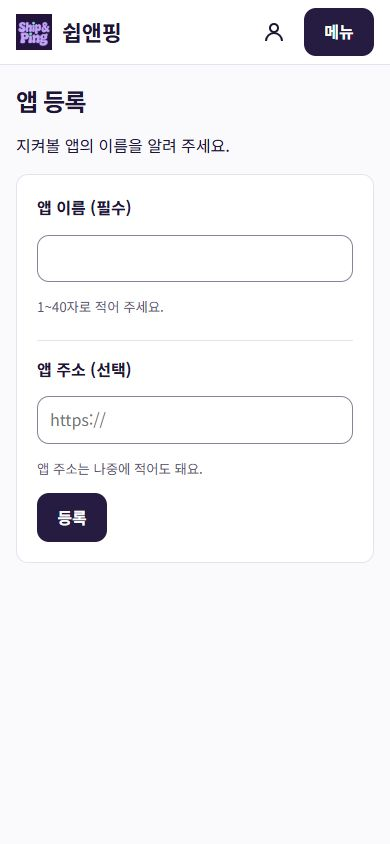
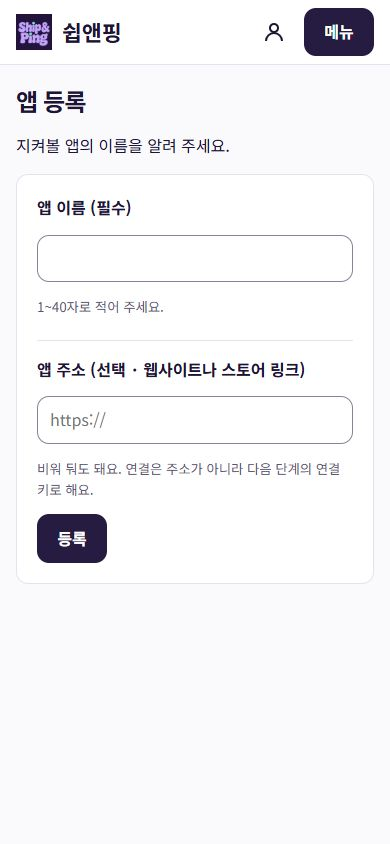
fix: T33 앱 주소 선택 안내와 모바일 앱 연결 안내 (#31)

diff --git a/web/src/onboarding.test.tsx b/web/src/onboarding.test.tsx
@@ -801,6 +801,24 @@ it("200개 한도를 넘긴 이름은 저장 성공으로 표시하지 않는다
   expect(screen.queryByDisplayValue("초과")).toBeNull();
 });
 describe("연결 요청문과 등록 입력", () => {
+  it.each(["/apps/new", "/apps/a/settings"])("%s 주소 칸에 선택 사항과 연결 방법을 안내한다", async path => {
+    open(path);
+    const field = await screen.findByLabelText("앱 주소 (선택 · 웹사이트나 스토어 링크)");
+    expect(field.getAttribute("placeholder")).toBe("https://");
+    expect(document.getElementById(field.getAttribute("aria-describedby")!)?.textContent)
+      .toBe("비워 둬도 돼요. 연결은 주소가 아니라 다음 단계의 연결 키로 해요.");
+  });
+  it.each([
+    "https://play.google.com/store/apps/details?id=com.example.app",
+    "https://apps.apple.com/kr/app/example/id123456789",
+  ])("스토어 주소 %s를 허용한다", url => {
+    expect(validateApp("모임모아", url)).toEqual({});
+  });
+  it("휴대폰 앱의 연결 방식을 안내한다", async () => {
+    open("/apps/a/connect");
+    const guide = await screen.findByText(/휴대폰 앱\(플레이스토어·앱스토어\)이라면/);
+    expect(guide.textContent).toBe("휴대폰 앱(플레이스토어·앱스토어)이라면 앱 서버에서 기록을 보내도록 서버 있음을 골라 주세요. 휴대폰 앱 코드는 바꾸지 않아도 돼요.");
+  });
   it("공개 수집 키와 환경변수 이름만 제공한다", () => {
     const prompt = buildConnectPrompt(pub, base);
     expect(prompt).toContain(pub);

diff --git a/web/src/App.tsx b/web/src/App.tsx
@@ -9,7 +9,7 @@ import {
   useParams,
 } from "react-router-dom";
 import type { AppSummary, Gateway } from "./data";
-import { validateApp } from "./domain";
+import { appAddressHelp, appAddressLabel, validateApp } from "./domain";
 import { displayText } from "./normalize";
 import { Hero, Landing, Shell } from "./Layout";
 import { AuthPage } from "./AuthPage";
@@ -230,7 +230,7 @@ function Register({
             onChange={(e) => setName(e.target.value)}
           />
           <small id="name-help">{errors.name ?? "1~40자로 적어 주세요."}</small>
-          <label htmlFor="app-url">앱 주소 (선택)</label>
+          <label htmlFor="app-url">{appAddressLabel}</label>
           <input
             id="app-url"
             type="url"
@@ -241,7 +241,7 @@ function Register({
             onChange={(e) => setUrl(e.target.value)}
           />
           <small id="url-help">
-            {errors.url ?? "앱 주소는 나중에 적어도 돼요."}
+            {errors.url ?? appAddressHelp}
           </small>
           <button disabled={busy}>{busy ? "등록하는 중" : "등록"}</button>
           {error && (

diff --git a/web/src/AppSettings.tsx b/web/src/AppSettings.tsx
@@ -3,7 +3,7 @@ import { useNavigate, useParams } from "react-router-dom";
 import { CurrentAppName } from "./Layout";
 import { Copy } from "./Connect";
 import { displayText, sanitizeRoute } from "./normalize";
-import { validateApp } from "./domain";
+import { appAddressHelp, appAddressLabel, validateApp } from "./domain";
 import type { Gateway, KeySummary, Label, Snapshot } from "./data";
 
 export function AppSettings({ api }: { api: Gateway }) {
@@ -119,9 +119,10 @@ function Settings({ api, id }: { api: Gateway; id: string }) {
               <input value={name} onChange={(e) => setName(e.target.value)} />
             </label>
             <label>
-              앱 주소
-              <input value={url} onChange={(e) => setUrl(e.target.value)} />
+              {appAddressLabel}
+              <input type="url" placeholder="https://" aria-describedby="url-help" value={url} onChange={(e) => setUrl(e.target.value)} />
             </label>
+            <small id="url-help">{appAddressHelp}</small>
             <button
               onClick={() =>
                 change(async () => {

diff --git a/web/src/Connect.tsx b/web/src/Connect.tsx
@@ -366,6 +366,7 @@ export function Connect({
           <div className="cols">
             <section className="panel">
               <h2>연결 요청문</h2>
+              <p>휴대폰 앱(플레이스토어·앱스토어)이라면 앱 서버에서 기록을 보내도록 <a href="#server-key"><strong>서버 있음</strong></a>을 골라 주세요. 휴대폰 앱 코드는 바꾸지 않아도 돼요.</p>
               {pub ? (
                 <>
                   <p>
@@ -394,7 +395,7 @@ export function Connect({
                   </button>
                 </>
               )}
-              <h3>서버가 있는 앱</h3>
+              <h3 id="server-key" tabIndex={-1}>서버가 있는 앱</h3>
               <p>
                 서버 키는 배포 설정(환경변수 <code>SHIPPING_SERVER_KEY</code>)에 직접
                 넣으세요. 코딩 AI 대화나 코드에 붙여넣지 마세요.

diff --git a/web/src/domain.ts b/web/src/domain.ts
@@ -40,6 +40,9 @@ export function buildConnectPrompt(publicKey: string, endpoint: string) {
 앞에서 지정한 쉽앤핑 수집 주소(INGEST_URL)는 예외야. ${connectRestriction}`;
 }
 
+export const appAddressLabel = "앱 주소 (선택 · 웹사이트나 스토어 링크)";
+export const appAddressHelp = "비워 둬도 돼요. 연결은 주소가 아니라 다음 단계의 연결 키로 해요.";
+
 export function validateApp(name: string, url: string) {
   const errors: { name?: string; url?: string } = {};
   if (!name.trim() || [...name.trim()].length > 40)

diff --git a/docs/monitoring-service-ux.md b/docs/monitoring-service-ux.md
@@ -136,15 +136,15 @@ S2 내 앱 목록 ─[머리말 오른쪽 계정 아이콘]→ S11 내 계정
 |---|---|---|---|---|---|
 | S1 로그인·가입·재설정 | 제출 중 단추 비활성 | 이메일·비밀번호 입력 | 로그인 실패는 “이메일이나 비밀번호가 맞지 않아요”. 같거나 약한 새 비밀번호는 해당 칸에서 수정. 만료·사용한 링크는 다시 요청 | 가입과 중복 가입에 같은 확인 메일 안내. 첫 로그인 → S3, 이후 로그인과 재설정 완료 → S2 | 비밀번호 확인이 다르면 다시 입력. 메일이 안 오면 스팸함 확인 |
 | S2 내 앱 목록 | 카드 자리 뼈대 | "아직 등록한 앱이 없어요. 앱을 등록하면 연결 요청문을 드려요" + [앱 등록하기] | 목록 불러오기 실패: "앱 목록을 불러오지 못했어요" + [다시 불러오기] | — | 앱 3개 한도: [앱 등록하기] 비활성 + "무료 베타는 앱 3개까지예요" [명세] |
-| S3 앱 등록 | [등록] → "등록하는 중" 비활성 | — | 칸 옆에 바로: "앱 이름을 적어 주세요(1~40자)", "https://로 시작하는 주소를 적어 주세요". 서버 실패: "등록하지 못했어요. 입력한 내용은 그대로 있어요" [다시 등록] | 키 발급 → S4로 이동 | 주소를 몰라도 됨: "앱 주소는 나중에 적어도 돼요" |
-| S4 연결하기 | 대기: "첫 기록을 기다리고 있어요" + 진행 단계 ①~④ (5초마다 조회, 화면을 떠나도 계속) | 30분 기록 없음: "기록이 안 와요?" 체크리스트(배포했나요 / 앱을 한 번 써 봤나요 / AI에 확인 문장 붙여넣기) [명세] | 조회 실패: 대기 표시 유지 + "잠시 연결이 끊겼어요. 자동으로 다시 확인해요". 이름 저장 실패: 고친 이름 유지 + [다시 저장] | "기록이 도착했어요. 기능 8개를 찾았어요" → 이름 확인 → [이 이름으로 지켜보기] → S5 | 요청문에 키가 들어 있음 → 복사 단추 아래 "다른 사람에게 보내지 마세요" |
+| S3 앱 등록 | [등록] → "등록하는 중" 비활성 | — | 칸 옆에 바로: "앱 이름을 적어 주세요(1~40자)", "https://로 시작하는 주소를 적어 주세요". 서버 실패: "등록하지 못했어요. 입력한 내용은 그대로 있어요" [다시 등록] | 키 발급 → S4로 이동 | 2026-11-26 사용자 결정 “앱 주소 (선택 · 웹사이트나 스토어 링크)”. 칸 아래 “비워 둬도 돼요. 연결은 주소가 아니라 다음 단계의 연결 키로 해요.” |
+| S4 연결하기 | 대기: "첫 기록을 기다리고 있어요" + 진행 단계 ①~④ (5초마다 조회, 화면을 떠나도 계속) | 30분 기록 없음: "기록이 안 와요?" 체크리스트(배포했나요 / 앱을 한 번 써 봤나요 / AI에 확인 문장 붙여넣기) [명세] | 조회 실패: 대기 표시 유지 + "잠시 연결이 끊겼어요. 자동으로 다시 확인해요". 이름 저장 실패: 고친 이름 유지 + [다시 저장] | "기록이 도착했어요. 기능 8개를 찾았어요" → 이름 확인 → [이 이름으로 지켜보기] → S5 | 요청문에 키가 들어 있음 → 복사 단추 아래 "다른 사람에게 보내지 마세요" · 2026-11-26 사용자 결정 “휴대폰 앱(플레이스토어·앱스토어)이라면 앱 서버에서 기록을 보내도록 **서버 있음**을 골라 주세요. 휴대폰 앱 코드는 바꾸지 않아도 돼요.” |
 | S5 앱 홈 | 문제 카드·기능 목록 뼈대 | 기록 0건: "첫 기록을 기다리고 있어요" + [연결 다시 보기](S4). 문제 없음: "모두 괜찮아요"(마지막 기록 시각 함께) | 24시간 기록 끊김: "하루 동안 기록이 없어요 — 사용자가 없었거나 연결이 끊겼을 수 있어요" + [연결 확인하는 법]. 폐기 키 사용: "폐기한 키로 기록이 오고 있어요" + [앱 설정에서 새 키 보기]. 한도 초과: "기록이 너무 많아 일부만 받고 있어요" [명세] | — | 알림 받을 곳 없음 띠 → [알림 설정] |
 | S6 기능 상세 | 막대 자리 뼈대 | 평소 속도 전: "지금까지 7건, 0.9~2.1초. 30건이 모이고 3일이 지나면 평소 속도를 알려 드려요" | 조회 실패: [다시 불러오기] | 느림 기준 바꾸기 → "느림 기준을 6초로 바꿨어요" | "느림 기준"은 평소 속도가 없을 때만 쓰인다는 설명 필요 |
 | S7 문제 상세 | 업데이트 후 확인 영역: "업데이트 후 첫 사용을 기다리고 있어요" → "3건 성공, 2건 더 확인할게요"(진행 수를 그대로) | 새 버전 없음: "고친 버전을 배포하면 여기서 확인해 드려요" [명세] | 복사 실패(브라우저가 막음): "자동 복사가 막혔어요. 아래 내용을 길게 눌러 복사하세요" + 내용 펼침. 새 버전에서도 실패: "업데이트 후에도 5건 중 2건 실패했어요" + [AI에 다시 보낼 내용 복사] | "해결됐어요" + "업데이트 후 분석 15건 모두 평소 속도로 끝났어요". 잠잠해짐은 "잠잠해졌어요(새 버전 없이 나아졌어요)"로 구분 | 휴대폰에서 복사하고 PC에서 붙여넣기 → 1장 제안 참고. [문제 아님으로 닫기]는 "24시간 다시 알리지 않아요"를 단추 옆에 |
 | S8 깊게 볼 기능 추가 | [추가 연결 요청 복사] 후 대기 | 5개 한도: 단추 비활성 + "깊게 볼 기능은 앱마다 5개까지예요" | 입력 칸 옆 안내(시작·성공 예시 문장). 첫 결과 미도착: S4와 같은 체크리스트 | "첫 신청 기록이 도착했어요. 참가자 명단에 저장되기까지 1.2초 걸렸어요" [명세] | "시작"과 "실제 성공"의 차이 → 예시 문장을 칸 안이 아니라 칸 위에 |
 | S9 알림 설정 | [Slack에 추가] → 슬랙 화면 이동 | 둘 다 꺼짐: "알림을 받을 곳이 없어요" 띠 [명세] | 앱 10개 한도: "이 슬랙 워크스페이스에 앱을 더 추가할 수 없어요(무료는 10개까지). 앱 하나를 지우거나 이메일 알림을 켜세요". 관리자 제한: "워크스페이스 관리자가 앱 추가를 막아 두었어요. 관리자에게 요청하거나 이메일 알림을 켜세요". 연결 끊김: "슬랙 연결이 끊겼어요, 다시 연결해 주세요" [명세] | "#모임모아-알림에 연결됐어요" + [시험 알림 보내기] → "시험 알림을 보냈어요. 슬랙에서 확인해 보세요" | 슬랙 OAuth 화면이 영어일 수 있음 → 누르기 전 "슬랙 화면에서 알림 받을 채널을 고르세요" 안내 |
 | S11 내 계정 (v1.1) | 비밀번호 저장·번호 전송 중 중복 제출 방지. 탈퇴 → "탈퇴하는 중" 비활성, 입력 잠금 | 등록한 앱 없음: "앱 0개 / 3개" + [앱 등록하기] | 인증번호가 틀리면 다시 입력하고 만료되면 새 번호 받기. 탈퇴 요청 제한은 “잠시 뒤 다시 시도해 주세요”. 탈퇴 실패: "탈퇴를 마치지 못했어요. 계정은 아직 남아 있고 로그인도 돼요" + [다시 시도](남은 삭제 이어서), 적은 이메일 유지 | 비밀번호 저장 후 로그인 방법 갱신. 재조회 실패 시 저장 완료 안내와 비밀번호 단추 초점을 유지하고 [다시 불러오기] 제공. 탈퇴 완료 → S1 + "탈퇴를 마쳤어요" 띠. 로그아웃 → S1 | 지워지는 것(실제 앱 수대로 앱·기록·문제·알림 설정, "탈퇴 후 최대 5분 안에 기록 받기가 멈춰요", 되돌릴 수 없음. 앱 0개면 계정만)을 단추 전에 보여 줌. 응답이 끊기면 "확인 중"으로 두고 2분까지 다시 확인. 탈퇴 요청의 세션이 거절되면 갱신 결과를 확인하고, 세션이 무효이면 S1에서 “탈퇴가 이미 끝났을 수 있어요” 안내. 로그인 이메일을 다시 적어야 단추가 눌림 |
-| S10 앱 설정 | 저장 중 비활성 | 숨긴 기능 없음: "숨긴 기능이 없어요" | [재발급]: "새 키를 만들면 이전 키는 24시간 뒤에 멈춰요. 그 안에 새 키로 배포하세요" 확인. [폐기]: "최대 5분 안에 이 키로 기록 받기가 멈춰요" 확인. [앱 삭제]: 앱 이름 다시 입력해야 단추 활성 [명세] | "새 키를 만들었어요. 이 화면을 떠나면 다시 볼 수 없어요" + [복사] | 키는 발급 직후 한 번만 보임 → 복사 전 화면을 떠나려 하면 한 번 묻기 |
+| S10 앱 설정 | 주소 칸 라벨·도움말은 S3과 같음. 저장 중 비활성 | 숨긴 기능 없음: "숨긴 기능이 없어요" | [재발급]: "새 키를 만들면 이전 키는 24시간 뒤에 멈춰요. 그 안에 새 키로 배포하세요" 확인. [폐기]: "최대 5분 안에 이 키로 기록 받기가 멈춰요" 확인. [앱 삭제]: 앱 이름 다시 입력해야 단추 활성 [명세] | "새 키를 만들었어요. 이 화면을 떠나면 다시 볼 수 없어요" + [복사] | 키는 발급 직후 한 번만 보임 → 복사 전 화면을 떠나려 하면 한 번 묻기 |
 
 ## 5. 상태 문장 사전 (세 시안 공통)
 

diff --git a/docs/specs/2026-11-24-ship-and-ping-feature-spec.md b/docs/specs/2026-11-24-ship-and-ping-feature-spec.md
@@ -126,10 +126,11 @@ PC 화면 공통 (v1.2, 사용자 결정 2026-11-25 "A": PC 우선)
 - 머리말 오른쪽 계정 아이콘 → S11 내 계정 (v1.1).
 
 ### S3. 앱 등록
-- 입력: 앱 이름(필수, 1~40자), 앱 주소(선택, https URL 형식 검사).
+- 앱 이름은 필수(1~40자). 2026-11-26 사용자 결정에 따라 주소 라벨은 “앱 주소 (선택 · 웹사이트나 스토어 링크)”, 도움말은 “비워 둬도 돼요. 연결은 주소가 아니라 다음 단계의 연결 키로 해요.”로 표시한다. 입력한 주소는 https 형식을 검사한다.
 - [등록] → 수집 키·서버 키 발급 → S4.
 
 ### S4. 연결하기
+2026-11-26 사용자 결정에 따라 연결 요청문에서 “휴대폰 앱(플레이스토어·앱스토어)이라면 앱 서버에서 기록을 보내도록 **서버 있음**을 골라 주세요. 휴대폰 앱 코드는 바꾸지 않아도 돼요.”라고 안내한다.
 1. **[연결 요청 복사]** — 코딩 AI용 요청문(6장 틀). 수집 키(공개돼도 되는 쓰기 전용)만 들어 있고 서버 키는 들어 있지 않다(6.0). 복사 영역에 안심 안내(확인 가능한 사실만): "요청문에는 비밀 키가 들어가지 않아요" / "복사하기 전에 전체 내용을 확인할 수 있어요" / "코딩 AI가 바꾼 코드는 배포 전에 한 번 확인해 주세요".
    - 서버가 있는 앱이면 아래에 **[서버 키 복사]** 영역을 따로 둔다(v1.3): "배포 설정(환경변수 `SHIPPING_SERVER_KEY`)에 직접 넣으세요. 코딩 AI 대화나 코드에 붙여넣지 마세요." 서버가 있는지 모르면 "서버(API 라우트·서버 함수)가 있으면 필요해요"로 접어 둔다.
 2. 대기 화면: "첫 기록을 기다리고 있어요" + 진행 단계(① 요청문 복사 ✓ ② 코딩 AI가 연결 ③ 배포 ④ 앱 한 번 써 보기).
@@ -176,7 +177,7 @@ PC 화면 공통 (v1.2, 사용자 결정 2026-11-25 "A": PC 우선)
 - 둘 다 꺼져 있으면 화면 상단에 "알림을 받을 곳이 없어요" 띠.
 
 ### S10. 앱 설정
-- 이름·주소 수정, 기능 이름표 편집, 숨긴 기능 되살리기.
+- 이름·주소 수정, 기능 이름표 편집, 숨긴 기능 되살리기. 주소 칸은 S3과 같은 라벨과 도움말을 쓴다.
 - 서버 키 [서버 키 복사](v1.3): 키 원문은 이 단추로만 복사한다. 안내 "배포 설정(환경변수 `SHIPPING_SERVER_KEY`)에 직접 넣으세요. 코딩 AI 대화나 코드에 붙여넣지 마세요."
 - 키: 접두만 표시, [재발급](이전 키 24시간 유지), [폐기](그 키 하나만. 앱·기록은 남음. 폐기한 순간부터 저장 안 함, 화면 문구 "최대 5분 안에 이 키로 기록 받기가 멈춰요").
 - [앱 삭제]: 앱 이름을 다시 입력해야 삭제. 모든 기록 즉시 삭제.

diff --git a/prompts/tasks/T33.md b/prompts/tasks/T33.md
@@ -1,0 +1,17 @@
+# 쉽앤핑 T33 — 앱 등록 '앱 주소' 문구와 모바일 앱 안내
+
+너는 Orca 작업 에이전트(Codex)다. 새 작업 폴더에서 일하고 PR까지 만든다. **머지 금지.** 웹만 바꾼다(로컬 웹 테스트·빌드).
+명령은 경로를 그대로 하나씩(셸 변수·명령 치환·인터프리터 한 줄 실행 금지), 파일은 Read·Write(편집) 도구로.
+동시에 T32(기기 간 로그인)가 `web/src/AuthPage.tsx`·로그인 관련 화면·`App.tsx` 라우트를 고친다 — **로그인 화면은 건드리지 말고**, `App.tsx`를 고쳐야 하면 앱 등록 부분만 최소로.
+
+## 사용자 결정 (2026-11-26)
+앱 등록(S3)의 "앱 주소"가 꼭 웹사이트 주소를 넣어야 하는 것처럼 보인다 → **"앱 주소 (선택 · 웹사이트나 스토어 링크)"**로 바꾸고, 모바일 앱이면 연결 화면에서 "서버 있음"을 고르라는 안내를 넣는다.
+
+## 할 일 (테스트 먼저)
+1. S3 앱 등록 화면: 라벨 "앱 주소 (선택 · 웹사이트나 스토어 링크)", 칸 아래 도움말 "비워 둬도 돼요. 연결은 주소가 아니라 다음 단계의 연결 키로 해요." 예시 placeholder는 `https://` 정도. 기존 https 형식 검사는 유지(플레이스토어 `https://play.google.com/...`, 앱스토어 `https://apps.apple.com/...` 통과 테스트).
+2. S4 연결 화면(서버 있음/브라우저만 고르는 곳): "휴대폰 앱(플레이스토어·앱스토어)이라면 앱 서버에서 기록을 보내도록 **서버 있음**을 골라 주세요. 휴대폰 앱 코드는 바꾸지 않아도 돼요." 안내 한 줄.
+3. S10 앱 설정의 주소 칸도 같은 라벨·도움말.
+4. 기능명세서 S3·S4 문장, UX 문서 해당 줄 갱신(사용자 결정 인용), `prompts/tasks/T33.md`, 위임 로그 T33 행. `npm run qa:shots`로 S3·S4 캡처를 `docs/design/screens/` 해당 번호에 갱신.
+
+## PR
+브랜치 `fix/T33-app-address-label`, 커밋 타입 `fix:`, PR 제목 `fix: T33 앱 주소 선택 안내와 모바일 앱 연결 안내`. `gh pr checks` 통과. 머지 금지. **끝나면 반드시 worker_done**.

diff --git a/docs/위임로그/김태형.md b/docs/위임로그/김태형.md
@@ -345,3 +345,9 @@
 | 목표 | 프롬프트 | 결과 | 검증 | 수정 | 배운 점 |
 |---|---|---|---|---|---|
 | 슬랙 연결을 미뤄도 운영 Worker 배포 | [T31 지시문](../../prompts/tasks/T31.md) | 운영 필수 비밀값 5개와 슬랙 활성화 절차를 명시 | 필수 목록·설치 요청 503 회귀 테스트 추가, 알림 설정 단추의 안내 표시 테스트 로컬 통과 | Worker의 설정 오류 문구를 회원용 안내로 변경 | 알림 화면은 Worker의 JSON 오류 문구를 그대로 표시한다. |
+
+## T33 앱 주소와 모바일 앱 연결
+
+| 목표 | 프롬프트 | 결과 | 검증 | 수정 | 배운 점 |
+|---|---|---|---|---|---|
+| 웹사이트가 없는 앱도 등록하고 연결할 수 있도록 안내 | [T33 지시문](../../prompts/tasks/T33.md) | S3·S10 주소 안내 통일, S4 모바일 앱 안내와 서버 키 영역 링크 추가 | 화면 테스트 3건의 선행 실패 확인 후 웹 2,821건·빌드 통과, S3·S4 캡처 4장 갱신 | 주소 도움말을 입력 칸과 연결하고 기존 https 검사를 유지 | 플레이스토어의 쿼리 포함 주소와 앱스토어의 경로형 주소 모두 기존 검사로 통과한다. |
